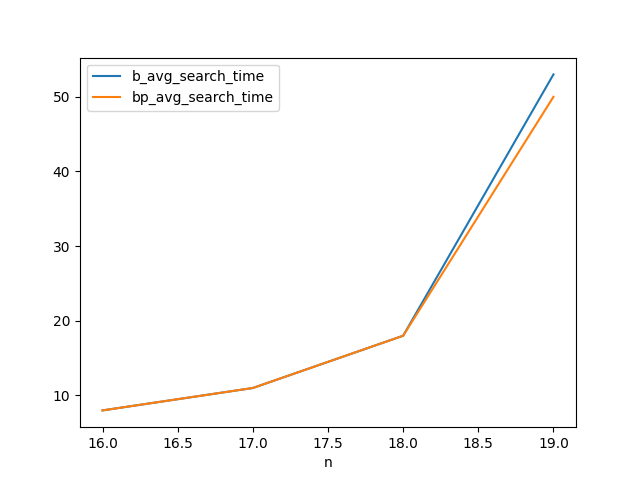
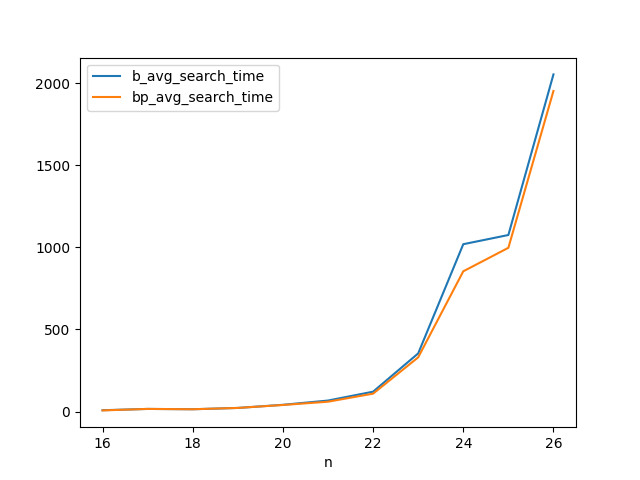
n26

diff --git a/experimentacion.cpp b/experimentacion.cpp
@@ -41,7 +41,7 @@ int main() {
     std::mt19937 gen(rd());
     std::uniform_int_distribution<> distrib(l_min, l_max);  // distribución aleatoria para l
 
-    for (int i = 16; i < 20; i++) {
+    for (int i = 16; i < 27; i++) {
         std::cout << "Resultados con n:" << i << std::endl;
         int N = pow(2, i);
 
